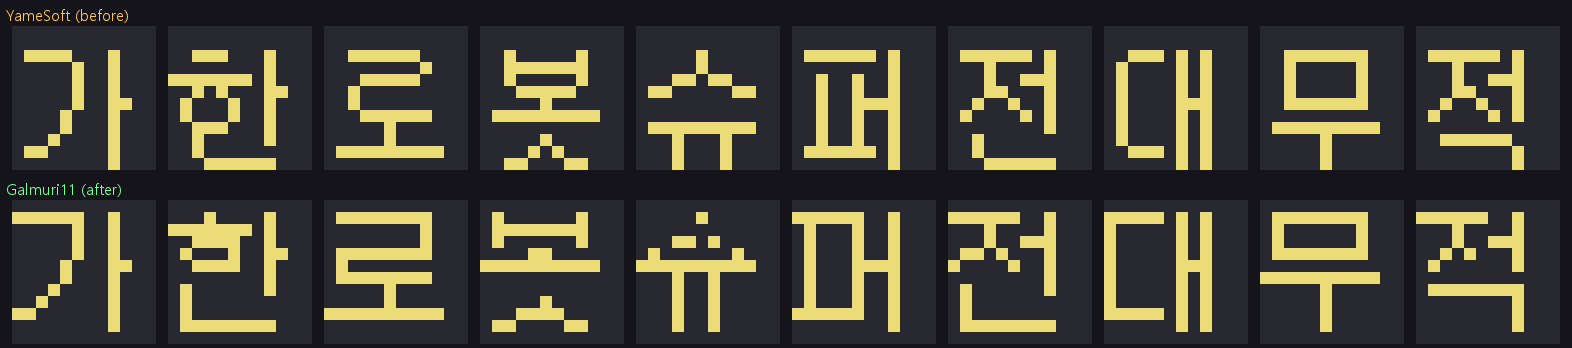
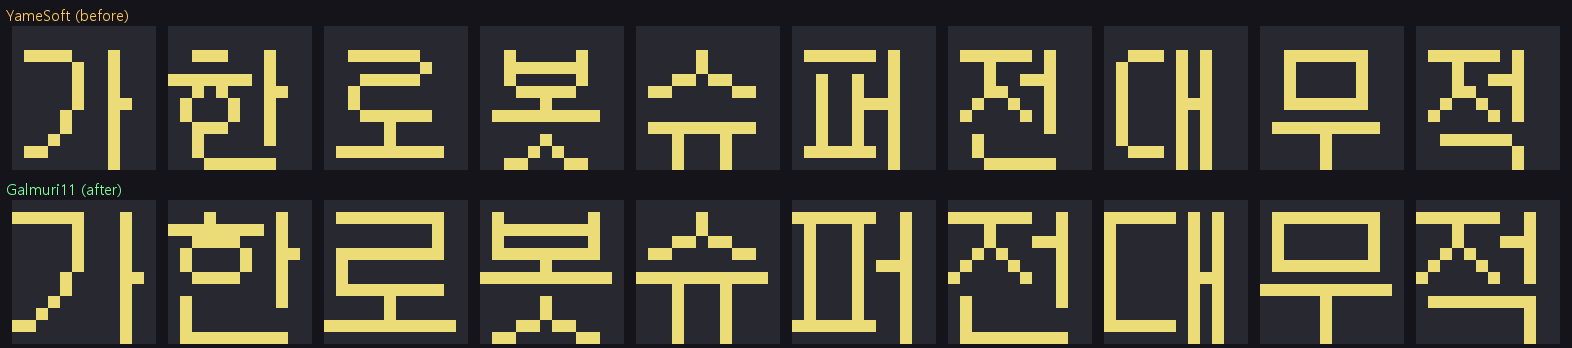
v1.14: 갈무리11 글리프를 12px로 재렌더 (12x12 셀 꽉 채움)
Galmuri11.ttf는 em=1200 → size 12에서 100units/px로 픽셀 그리드에 정확히
일치(전 음절 AA 0). size 11은 오히려 AA 발생. FONT_PX 11→12로 변경해
12px 폭을 채우고 선명도 향상. 잘림 0, arm9 크기 불변.
결과 ROM CRC32 DE5EB2E0.

diff --git a/tools/_inject_font.py b/tools/_inject_font.py
@@ -15,7 +15,7 @@ from PIL import Image, ImageFont, ImageDraw
 from srwk_codec import HAN2CODE, CODE2HAN
 
 FONT_TTF = 'Galmuri11.ttf'
-FONT_PX  = 11
+FONT_PX  = 12          # em=1200 -> 100 units/px at size 12: grid-exact (0 AA) & fills the 12x12 cell
 FONT_BASE = 0x43EB8
 S = 26
 X_OFF, Y_OFF = 0, 0     # placement of the glyph inside the 12x12 cell

diff --git a/tools/build_rom_all.py b/tools/build_rom_all.py
@@ -19,7 +19,7 @@ OUT_ROM = os.path.join(ROOT, "Super Robot Wars K (Korean)-NEW.nds")
 
 # ── release version — UPDATE THIS on each version bump; written to the ROM banner
 #    title so the emulator's "ROM display name" matches the released patch. ──
-VERSION = "1.13"
+VERSION = "1.14"
 BANNER_TITLE = "슈퍼로봇대전K 버전 {ver}\n한글화 YameSoft + 부끄지"
 
 

diff --git a/README.md b/README.md
@@ -18,18 +18,19 @@
 
 ## 패치 다운로드 & 적용 (Patch)
 
-완성된 한글 패치: **[`patch/SRWK-Korean-v1.13.xdelta`](patch/SRWK-Korean-v1.13.xdelta)** (약 1.6 MB, xdelta3 / VCDIFF)
+완성된 한글 패치: **[`patch/SRWK-Korean-v1.14.xdelta`](patch/SRWK-Korean-v1.14.xdelta)** (약 1.6 MB, xdelta3 / VCDIFF)
 
 1. xdelta 적용 도구(xdelta UI, Delta Patcher 등) 또는 명령줄:
    ```
-   xdelta3 -d -s "Super Robot Wars K (Japan).nds" SRWK-Korean-v1.13.xdelta "Super Robot Wars K (Korean).nds"
+   xdelta3 -d -s "Super Robot Wars K (Japan).nds" SRWK-Korean-v1.14.xdelta "Super Robot Wars K (Korean).nds"
    ```
 2. **기준 ROM** (본인이 합법적으로 덤프한 것):
    - `Super Robot Wars K (Japan).nds` — **67,108,864 바이트, CRC32 `D16DB8AF`**
 3. 결과 ROM:
-   - `Super Robot Wars K (Korean).nds` — **63,693,664 바이트, CRC32 `311304BD`**
+   - `Super Robot Wars K (Korean).nds` — **63,693,664 바이트, CRC32 `DE5EB2E0`**
 
-> **v1.13 변경**: **대사 폰트를 갈무리11(Galmuri11)로 교체** — 한글 완성형 2,349자 글리프를 갈무리11 비트맵 폰트로 재작성 (arm9 SJIS 인덱스 폰트 테이블 in-place). 폰트: [Galmuri](https://galmuri.quiple.dev/) by 정예하(quiple), SIL Open Font License 1.1.
+> **v1.14 변경**: 갈무리11 글리프를 **12px 크기로 재렌더**해 12×12 셀을 꽉 채움(선명도 향상 — em 1200÷12=100u/px 그리드 정확 일치, 안티앨리어싱 0). 폰트: [Galmuri](https://galmuri.quiple.dev/) by 정예하(quiple), SIL OFL 1.1.
+> **v1.13**: 대사 폰트를 갈무리11(Galmuri11)로 교체 (한글 완성형 2,349자).
 > **v1.12**: 타이틀 로고 색 수정(글자 뒤 판 갈색→검정) + 전투 대사 다듬기.
 > **v1.11**: **타이틀 로고 리뉴얼** — 부끄지 님이 새로 그린 「슈퍼로봇대전K」 로고 아트로 교체 (add02 #2359 팔레트 최적화 + #2360 타일).
 > **v1.10**: 시나리오 대사 오타 수정(「나고」→「나도」) + 인게임 한글화 크레딧 갱신(YameSoft ＋ 부끄지).